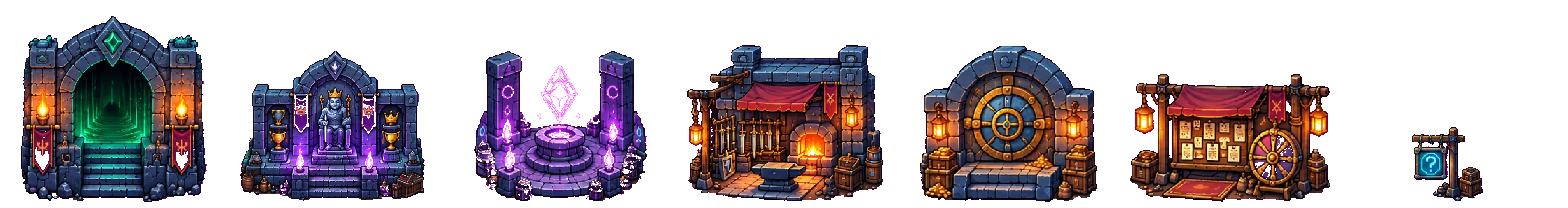
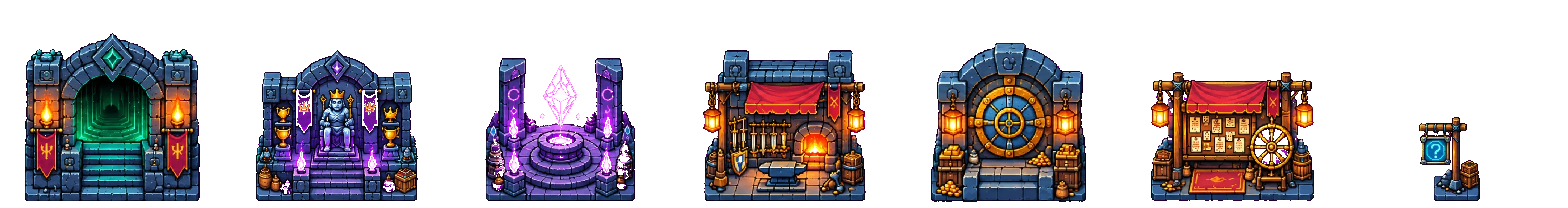
Lobby buildings drawn from the front, each covering its paved square and standing on its bottom edge

diff --git a/src/game/camp-art.ts b/src/game/camp-art.ts
@@ -61,7 +61,7 @@ export type CampSprite = (typeof CAMP_SHEETS)[CampSheet][number];
 export const CAMP_CELL_W = 224, CAMP_CELL_H = 208, CAMP_FOOT_X = 112, CAMP_FOOT_Y = 200;
 /** How tall each sprite stands, in pixels (the script's BUILDING_HEIGHT, FURNITURE_HEIGHT, DECOR_HEIGHT). */
 export const CAMP_SPRITE_HEIGHT: Record<CampSprite, number> = {
-  gate: 186, hall: 150, altar: 150, armory: 156, ledger: 156, board: 128, guide: 74,
+  gate: 168, hall: 151, altar: 143, armory: 151, ledger: 159, board: 129, guide: 84,
   fire: 90, bench: 34, crate: 30, crates: 46, barrel: 34, chair: 38, tent: 104,
   banner: 64, lamp: 72, brazier: 46, crystal: 42, mushrooms: 24, boulder: 38, stalagmite: 60,
 };
@@ -72,21 +72,23 @@ export const cellOf = (sprite: CampSprite) => (CAMP_SHEETS[sheetOf(sprite)] as r
 
 /**
  * Something standing in the camp: a sprite on solid tiles (x, y, w, h). It is drawn with its foot at the middle of the
- * footprint's bottom edge, or at `footX` (pixels) when the painted pad is not centred on whole tiles.
+ * footprint's bottom edge, or at `footX`, `footY` (pixels): a building stands on the bottom edge of its painted pad,
+ * which is not on whole tiles.
  */
-export type CampObject = { id: string; sprite: CampSprite; x: number; y: number; w: number; h: number; footX?: number; station?: StationId };
+export type CampObject = { id: string; sprite: CampSprite; x: number; y: number; w: number; h: number; footX?: number; footY?: number; station?: StationId };
 
 const one = (id: string, sprite: CampSprite, x: number, y: number): CampObject => ({ id, sprite, x, y, w: 1, h: 1 });
 
 export const CAMP_OBJECTS: readonly CampObject[] = [
-  // The seven buildings, each on its paved square (see art/lobby/ground-v2-grid.png).
-  { id: "gate", sprite: "gate", x: 21, y: 3, w: 6, h: 4, footX: 768, station: "gate" },
-  { id: "hall", sprite: "hall", x: 9, y: 7, w: 5, h: 4, footX: 354, station: "hall" },
-  { id: "altar", sprite: "altar", x: 4, y: 13, w: 5, h: 5, footX: 192, station: "altar" },
-  { id: "armory", sprite: "armory", x: 34, y: 7, w: 6, h: 4, footX: 1181, station: "armory" },
-  { id: "ledger", sprite: "ledger", x: 40, y: 13, w: 5, h: 5, footX: 1344, station: "ledger" },
-  { id: "board", sprite: "board", x: 34, y: 20, w: 6, h: 4, footX: 1183, station: "board" },
-  { id: "guide", sprite: "guide", x: 26, y: 22, w: 2, h: 2, footX: 848, station: "guide" },
+  // The seven buildings, each covering its paved square: as wide as it, standing on its bottom edge (pixels measured on
+  // art/lobby/ground-v2-grid.png). Drawn from the front, so their bases line up with the square grid.
+  { id: "gate", sprite: "gate", x: 21, y: 3, w: 6, h: 4, footX: 768, footY: 212, station: "gate" },
+  { id: "hall", sprite: "hall", x: 9, y: 7, w: 5, h: 4, footX: 354, footY: 340, station: "hall" },
+  { id: "altar", sprite: "altar", x: 4, y: 13, w: 5, h: 5, footX: 192, footY: 566, station: "altar" },
+  { id: "armory", sprite: "armory", x: 34, y: 7, w: 6, h: 4, footX: 1180, footY: 340, station: "armory" },
+  { id: "ledger", sprite: "ledger", x: 40, y: 13, w: 5, h: 5, footX: 1344, footY: 566, station: "ledger" },
+  { id: "board", sprite: "board", x: 34, y: 20, w: 6, h: 4, footX: 1182, footY: 756, station: "board" },
+  { id: "guide", sprite: "guide", x: 26, y: 22, w: 2, h: 2, footX: 852, footY: 768, station: "guide" },
   // The plaza: the fire in the middle, benches in its four corners, lamps at the paths' corners.
   { id: "fire", sprite: "fire", x: 23, y: 14, w: 3, h: 2 },
   one("bench-nw", "bench", 21, 13), one("bench-ne", "bench", 27, 13), one("bench-sw", "bench", 21, 17), one("bench-se", "bench", 27, 17),
@@ -107,7 +109,7 @@ export const CAMP_OBJECTS: readonly CampObject[] = [
 ];
 
 /** Where an object's foot stands, in ground pixels: the middle of its footprint's bottom edge, a pixel above the line. */
-export const footOf = (o: CampObject) => ({ x: o.footX ?? (o.x + o.w / 2) * 32, y: (o.y + o.h) * 32 - 2 });
+export const footOf = (o: CampObject) => ({ x: o.footX ?? (o.x + o.w / 2) * 32, y: o.footY ?? (o.y + o.h) * 32 - 2 });
 
 /** The box an object's picture covers, in ground pixels (its width as wide as its footprint, at least a tile). */
 export function objectBox(o: CampObject) {

diff --git a/HANDOFF.md b/HANDOFF.md
@@ -285,6 +285,8 @@ PNG героїв стискаються до палітри 256 кольорів
    - Спрайти — три рядки на мадженті в `art/lobby/sprites/` (buildings, furniture, decor) → `public/lobby/*.png` скриптом (`node scripts/sprite-sheets.mjs lobby`, вид `lobby`, 1×, клітинка 224×208, нога (112, 200); порядок і висоти — `BUILDING_*`, `FURNITURE_*`, `DECOR_*`, у грі — `CAMP_SHEETS`, `CAMP_SPRITE_HEIGHT`, тест звіряє).
    - Розстановка — `CAMP_OBJECTS` у `src/game/camp-art.ts`: спрайт, клітинки (x, y, w, h), будівля. Карта проходу = `CAMP_GROUND` мінус клітинки предметів, мінус клітинки за широкими предметами (будівлі, вогнище, намет), мінус відрізані кишені. Світло — від предметів (`SPRITE_LIGHTS`). Двері: gate (24,7), hall (11,11), altar (9,15), armory (37,11), vault (39,15), board (37,19), guide (25,23); вхід (24,24).
    - Переставити предмет = змінити одну координату в `CAMP_OBJECTS`; тест перевіряє, що все стоїть на підлозі, не перетинається, двері біля своїх будівель і досяжні.
+   - Будівлі перемальовано фронтально (2026-10-15, власник: «діагонально ставити не треба»): кожна накриває свій майданчик на всю ширину й стоїть на його нижньому краї (`footX`, `footY` у пікселях). Ізометрична версія — `art/lobby/raw/buildings-iso-v1.webp`. Прохід між воротами, Hall і Armory відкрито (темний мох — підлога).
+   - **Далі (власник):** кам'яний бордюр уздовж стежок, «як у майнкрафті».
    - WASD і E працюють на будь-якій розкладці (`moveOf`, `isActKey` у `src/lib/controls.ts`: за `e.code`).
 0. **Деплой на Arc mainnet (2026-10-14):**
    - Сервер Vultr: **64.176.72.12** (London, Ubuntu 24.04, $6/міс., створено 2026-10-14). Сайт: `https://64-176-72-12.sslip.io`.
